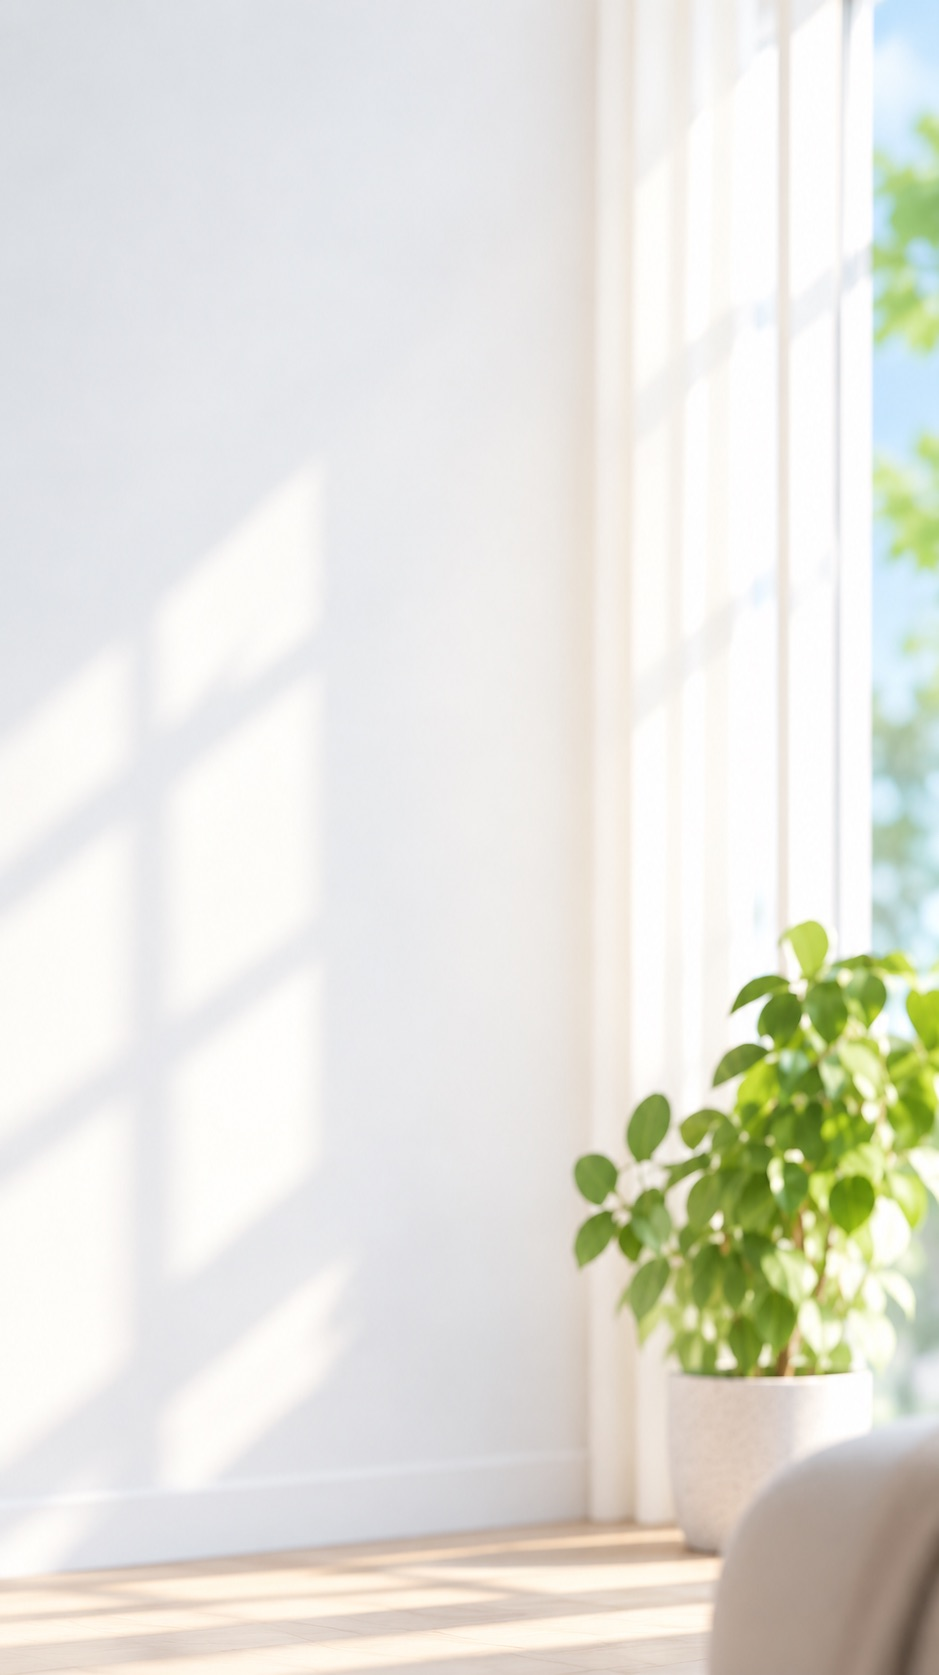
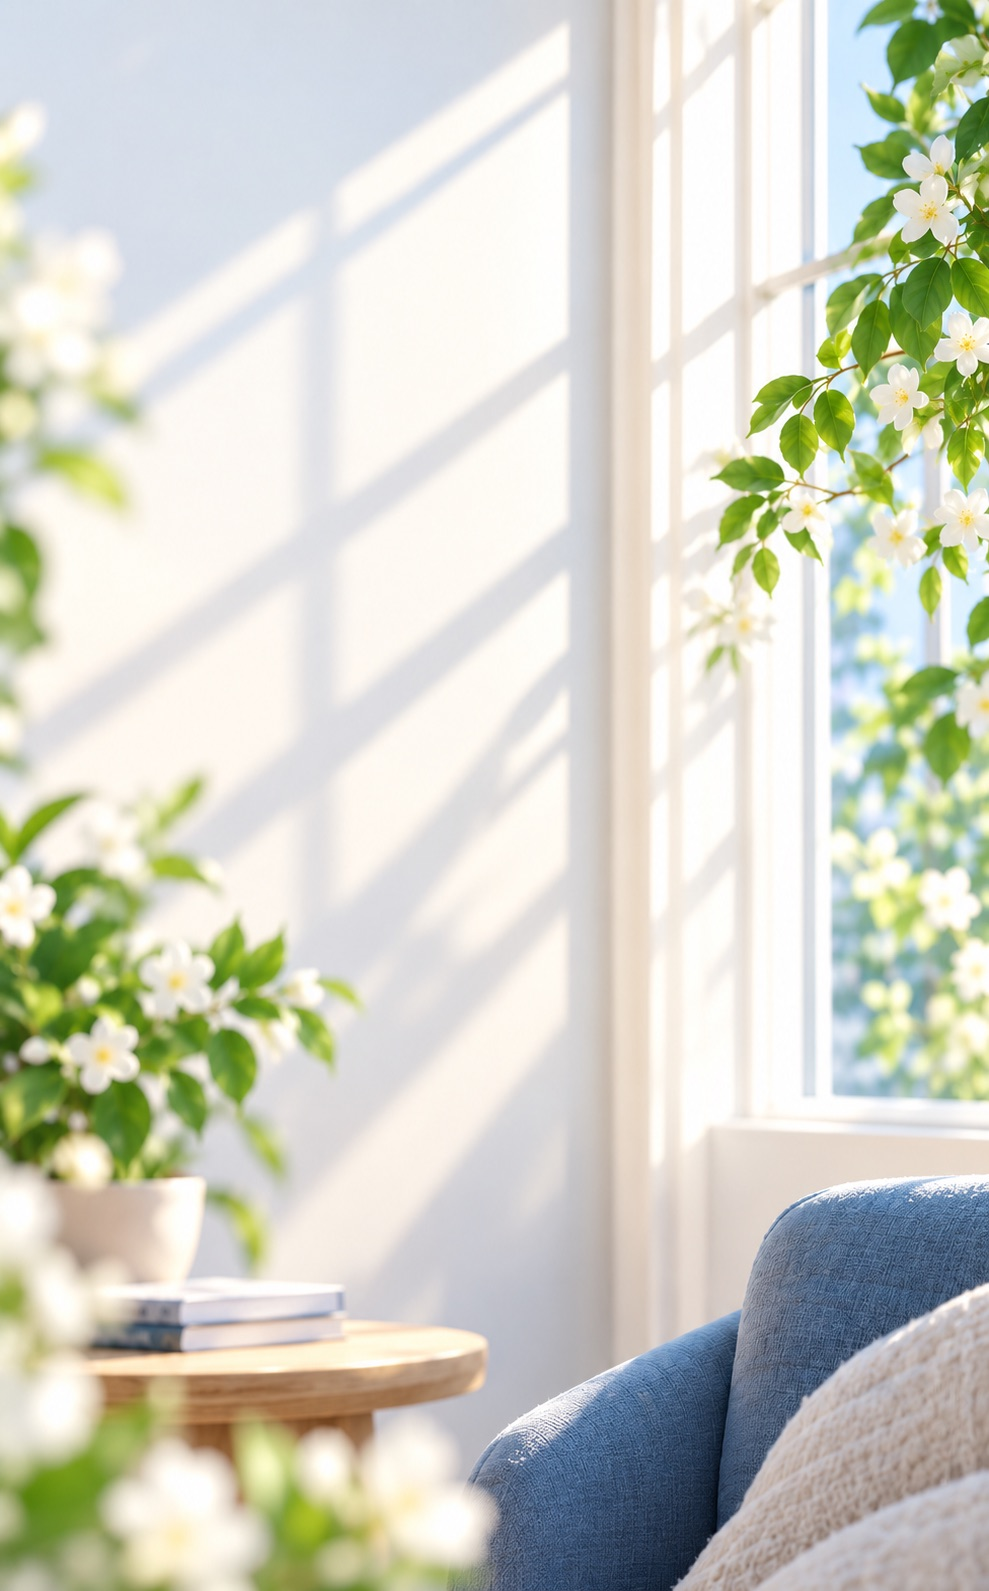
La photo de l'accueil remplacée par fond-haut2.png
Instruction : « fond-haut2.png »

Ce que le diff contient
- `src/assets/images/fond-accueil.jpg` : remplacé par sa nouvelle photo
  `~/Desktop/GLOW/Images-pour-claude/fond-haut2.png` (989×1591) — mur
  clair, fenêtre fleurie à droite, fauteuil bleu en bas —, en JPEG
  qualité 82. Même nom de fichier, même jeton, même mise en page.
- `src/themes/blanc/blanc.css`, `degrade-doux.css` : le commentaire du
  jeton dit la nouvelle photo.

Vérifié
- Capture à 2× : la nouvelle photo derrière toute la page, à la largeur
  de l'écran, sans zoom.
- `npx tsc --noEmit` silencieux, `npm test` 18/18, `npm run build` vert,
  la nouvelle empreinte du fichier au build.

Non traité
- Rien.

Commit réalisé par Claude à la demande de l'utilisatrice.

Claude-Session: https://claude.ai/code/session_01JvnPHmh6ZdUJKbE53NSUSZ

diff --git a/src/themes/blanc/blanc.css b/src/themes/blanc/blanc.css
@@ -96,10 +96,10 @@
   --menu-ajouter-ombre: 0 8px 18px -6px rgba(47, 108, 245, 0.55);
 
   /* LE FOND DE L'ACCUEIL (2026-09-16, « essaie l'image fond haut sur toute
-     la jauteur de l'ecran en fond », « non zoomée », « fond-haut.png ») : sa
-     photo en portrait — un mur blanc, une plante à droite, le sol en bas —,
-     embarquée dans `src/assets/images/` comme les polices (aucune ressource
-     distante). Elle a remplacé la photo horizontale du haut de page, qui ne
+     la jauteur de l'ecran en fond », « non zoomée », « fond-haut.png », puis
+     « fond-haut2.png » le même soir) : sa photo en portrait — un mur clair,
+     une fenêtre fleurie à droite, un fauteuil bleu en bas —, embarquée dans
+     `src/assets/images/` comme les polices (aucune ressource distante). Elle a remplacé la photo horizontale du haut de page, qui ne
      couvrait qu'un tiers de la hauteur sans zoom. */
   --accueil-fond-image: url(../../assets/images/fond-accueil.jpg);
 

diff --git a/src/themes/degrade-doux/degrade-doux.css b/src/themes/degrade-doux/degrade-doux.css
@@ -93,10 +93,10 @@
   --menu-ajouter-ombre: 0 8px 18px -6px rgba(47, 108, 245, 0.55);
 
   /* LE FOND DE L'ACCUEIL (2026-09-16, « essaie l'image fond haut sur toute
-     la jauteur de l'ecran en fond », « non zoomée », « fond-haut.png ») : sa
-     photo en portrait — un mur blanc, une plante à droite, le sol en bas —,
-     embarquée dans `src/assets/images/` comme les polices (aucune ressource
-     distante). Elle a remplacé la photo horizontale du haut de page, qui ne
+     la jauteur de l'ecran en fond », « non zoomée », « fond-haut.png », puis
+     « fond-haut2.png » le même soir) : sa photo en portrait — un mur clair,
+     une fenêtre fleurie à droite, un fauteuil bleu en bas —, embarquée dans
+     `src/assets/images/` comme les polices (aucune ressource distante). Elle a remplacé la photo horizontale du haut de page, qui ne
      couvrait qu'un tiers de la hauteur sans zoom. */
   --accueil-fond-image: url(../../assets/images/fond-accueil.jpg);
 
